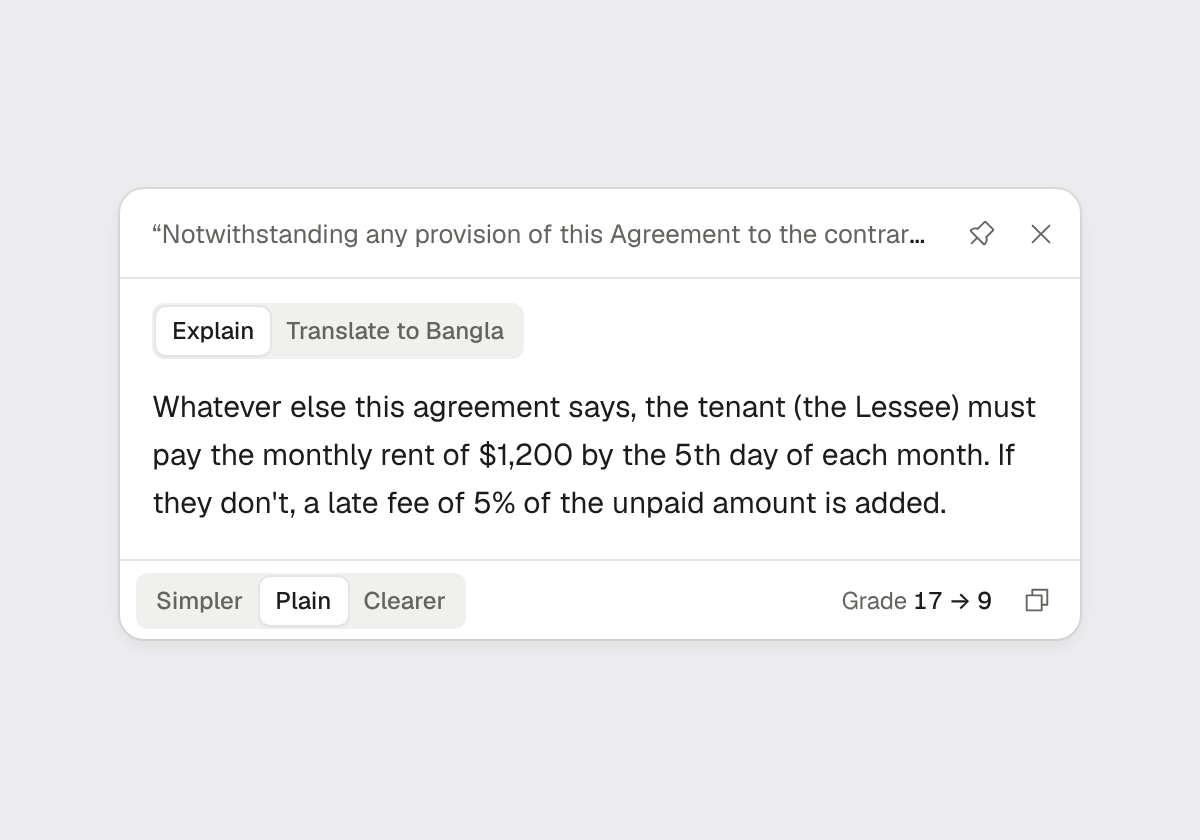
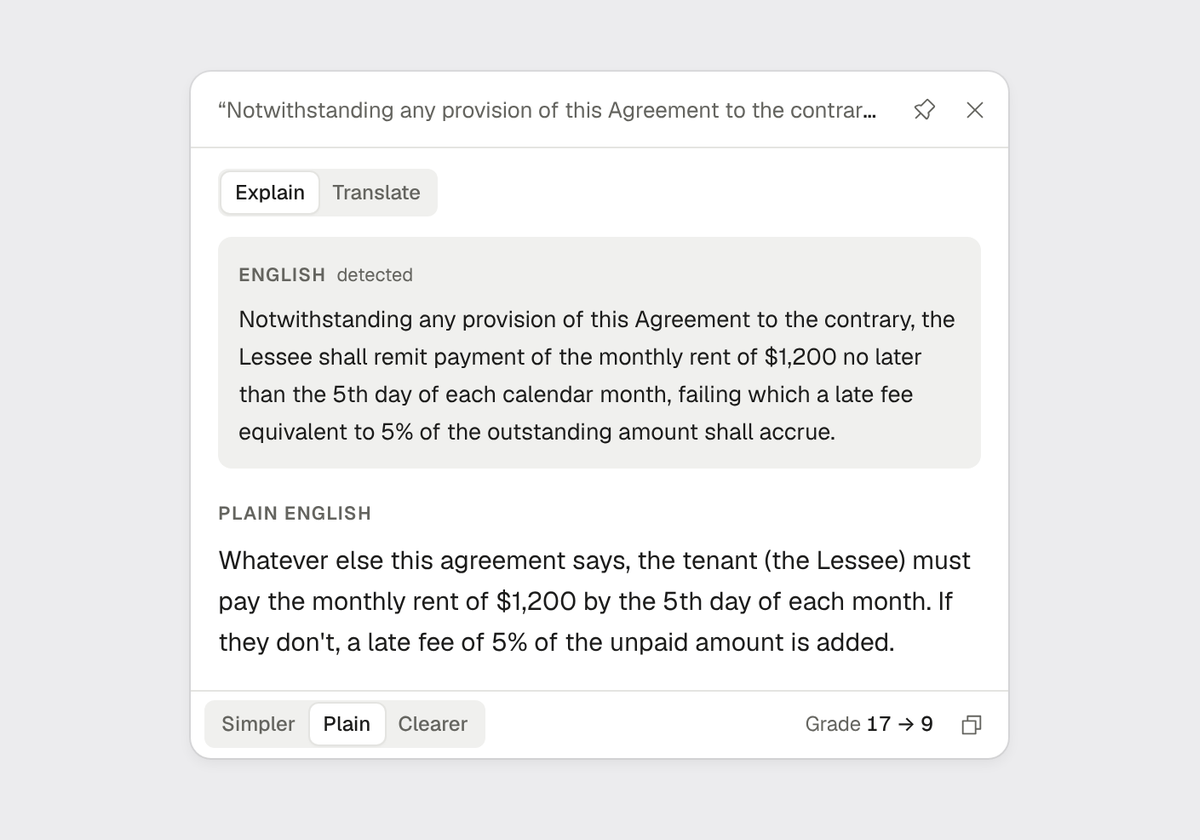
docs: README and marketing kit show the two-panel AI tab and the language search

diff --git a/README.md b/README.md
@@ -41,14 +41,14 @@ For contracts, papers, letters and any word you don't know, in every app, not on
 <td width="50%" valign="top">
 <img src="docs/screenshots/feature-explain.png" alt="The card with the lease clause rewritten in plain language, the Simpler, Plain, Clearer switch and the grade going from 17 to 9">
 <h3>Explain in plain words</h3>
-A small AI on your own computer rewrites jargon at the level you pick, keeps every number,
-date and name, and shows the reading grade before and after.
+A small AI on your own computer rewrites jargon at the level you pick, right under what you
+selected, keeps every number, date and name, and shows the reading grade before and after.
 </td>
 <td width="50%" valign="top">
-<img src="docs/screenshots/feature-translate.png" alt="The AI tab set to Translate to Bangla: the original sentence, small and grey, above its Bangla translation">
+<img src="docs/screenshots/feature-translate.png" alt="The AI tab translating: what you selected, labelled English, above its Bangla translation, with the language as a dropdown">
 <h3>Translate privately</h3>
-The same AI translates, so private text never leaves your computer. Each sentence sits
-under its original, so you can map one onto the other. Google Translate is a tab away.
+The same AI translates, so private text never leaves your computer. Your text sits above
+the translation; point at a sentence to see its partner. Pick any language from a search.
 </td>
 </tr>
 <tr>

diff --git a/docs/marketing/facebook.md b/docs/marketing/facebook.md
@@ -41,15 +41,16 @@ Suggested order: post 1 (launch), then one feature post every two or three days.
 
 ## 2. Private translation
 
-**Image:** `feature-translate.png` (each sentence above its Bangla translation)
+**Image:** `feature-translate.png` (your text above its Bangla translation)
 
 > New in Text Explainer: translate without sending your text to anyone.
 >
 > The AI tab now has two buttons: Explain and Translate. Translation runs on your
 > computer, so contracts, medical letters and private messages stay private.
 >
-> Each sentence sits right under its original, so you can see which words became which.
-> Great if you're learning a language, or checking a letter before you sign it.
+> Your text stays on top and the translation sits right below it. Point at a sentence and
+> its partner lights up, so you can see which words became which. Click the language name
+> to search for any other. Text in another language goes into English on its own.
 >
 > It also checks itself: if a number or a date goes missing in the translation, the card
 > tells you, and the answer can't drift into the wrong language. You can translate into

diff --git a/docs/marketing/case-study.md b/docs/marketing/case-study.md
@@ -50,8 +50,8 @@ anything leaving the computer. It must not get in the way of the work you are do
 - **Grew it into a product people can use daily.** A tabbed card (web searches first, the
   offline dictionary, then the AI only when asked, which saves compute), a Look up box for
   words that aren't on screen, private translation by the same local model (with the
-  language and number checks extended to translations, and each sentence shown under its
-  original), a Word book that exports to Excel
+  language and number checks extended to translations, the text shown above its answer
+  with linked sentences, and a searchable language list), a Word book that exports to Excel
   and Anki, and a list of apps the card never reads from (password managers by default).
   Each feature was reviewed for security, data handling and AI quality; the review's nine
   findings were fixed before release.
